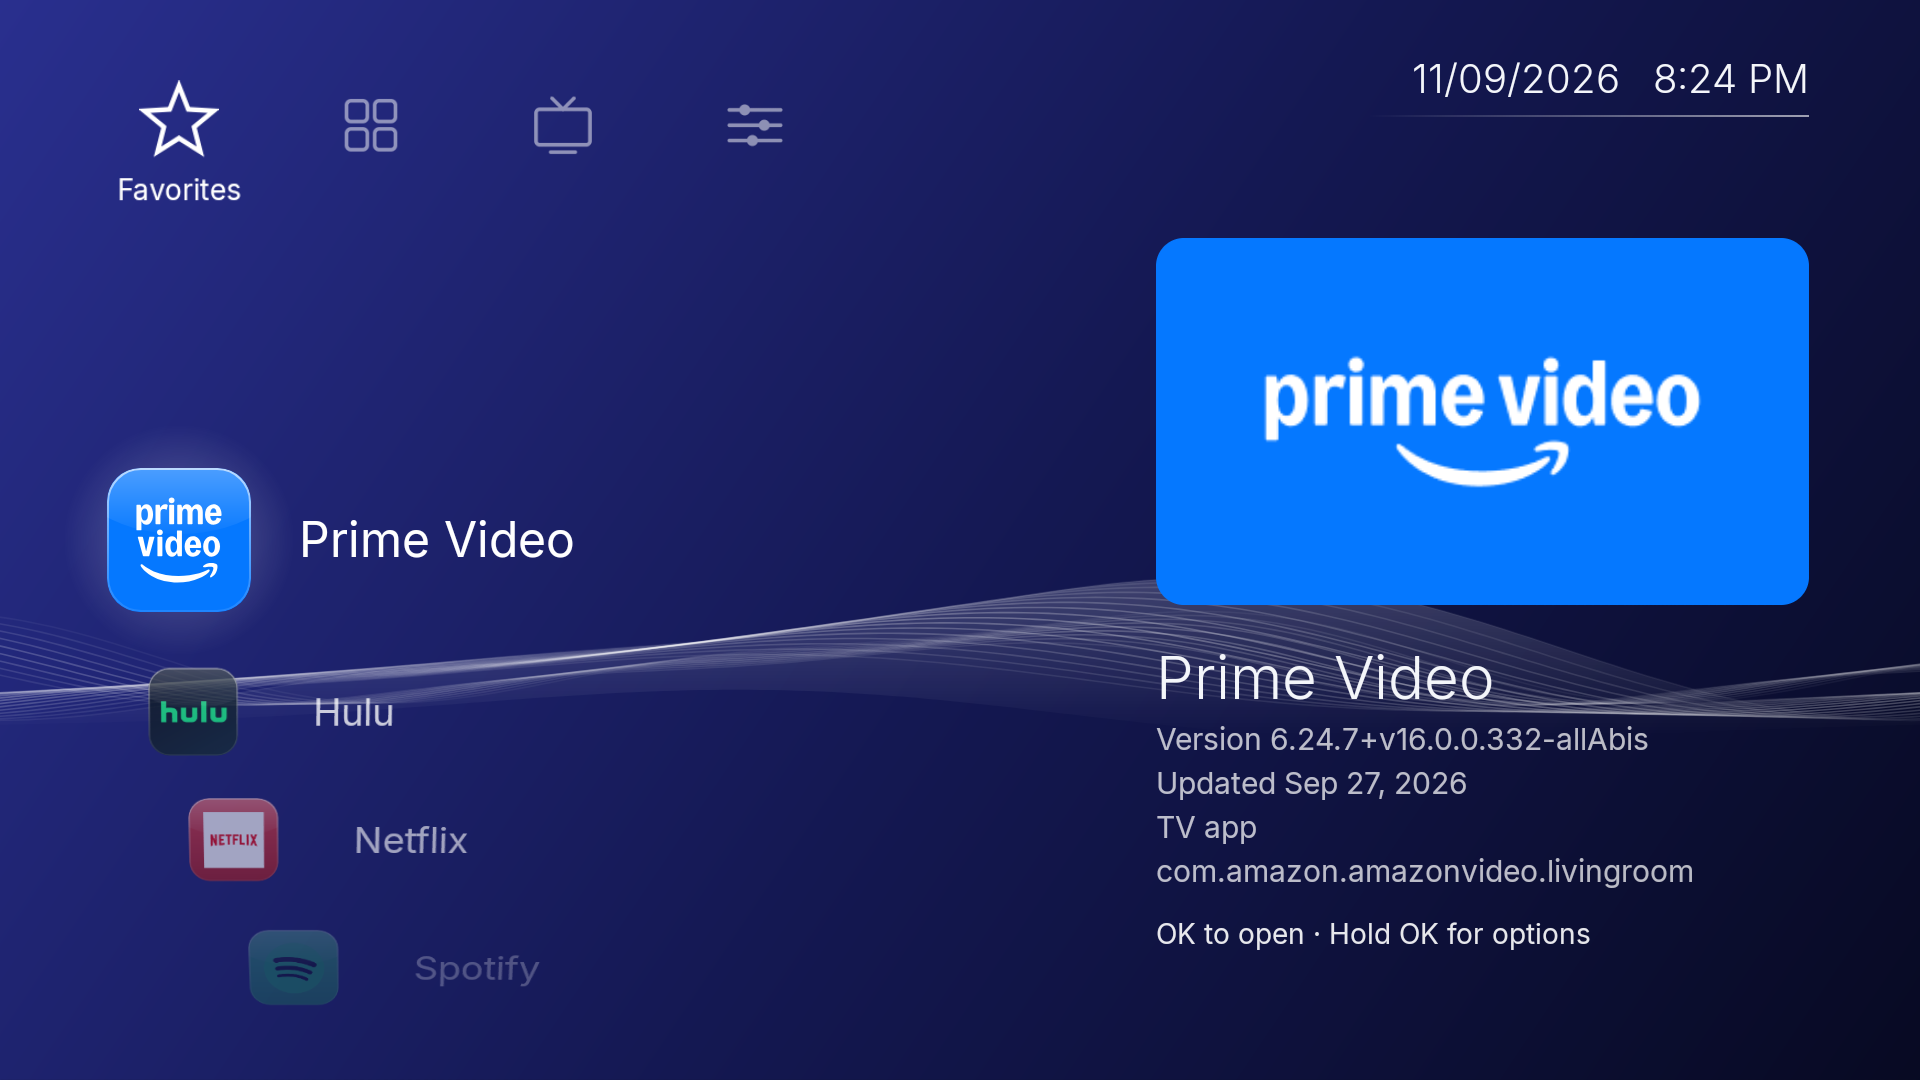
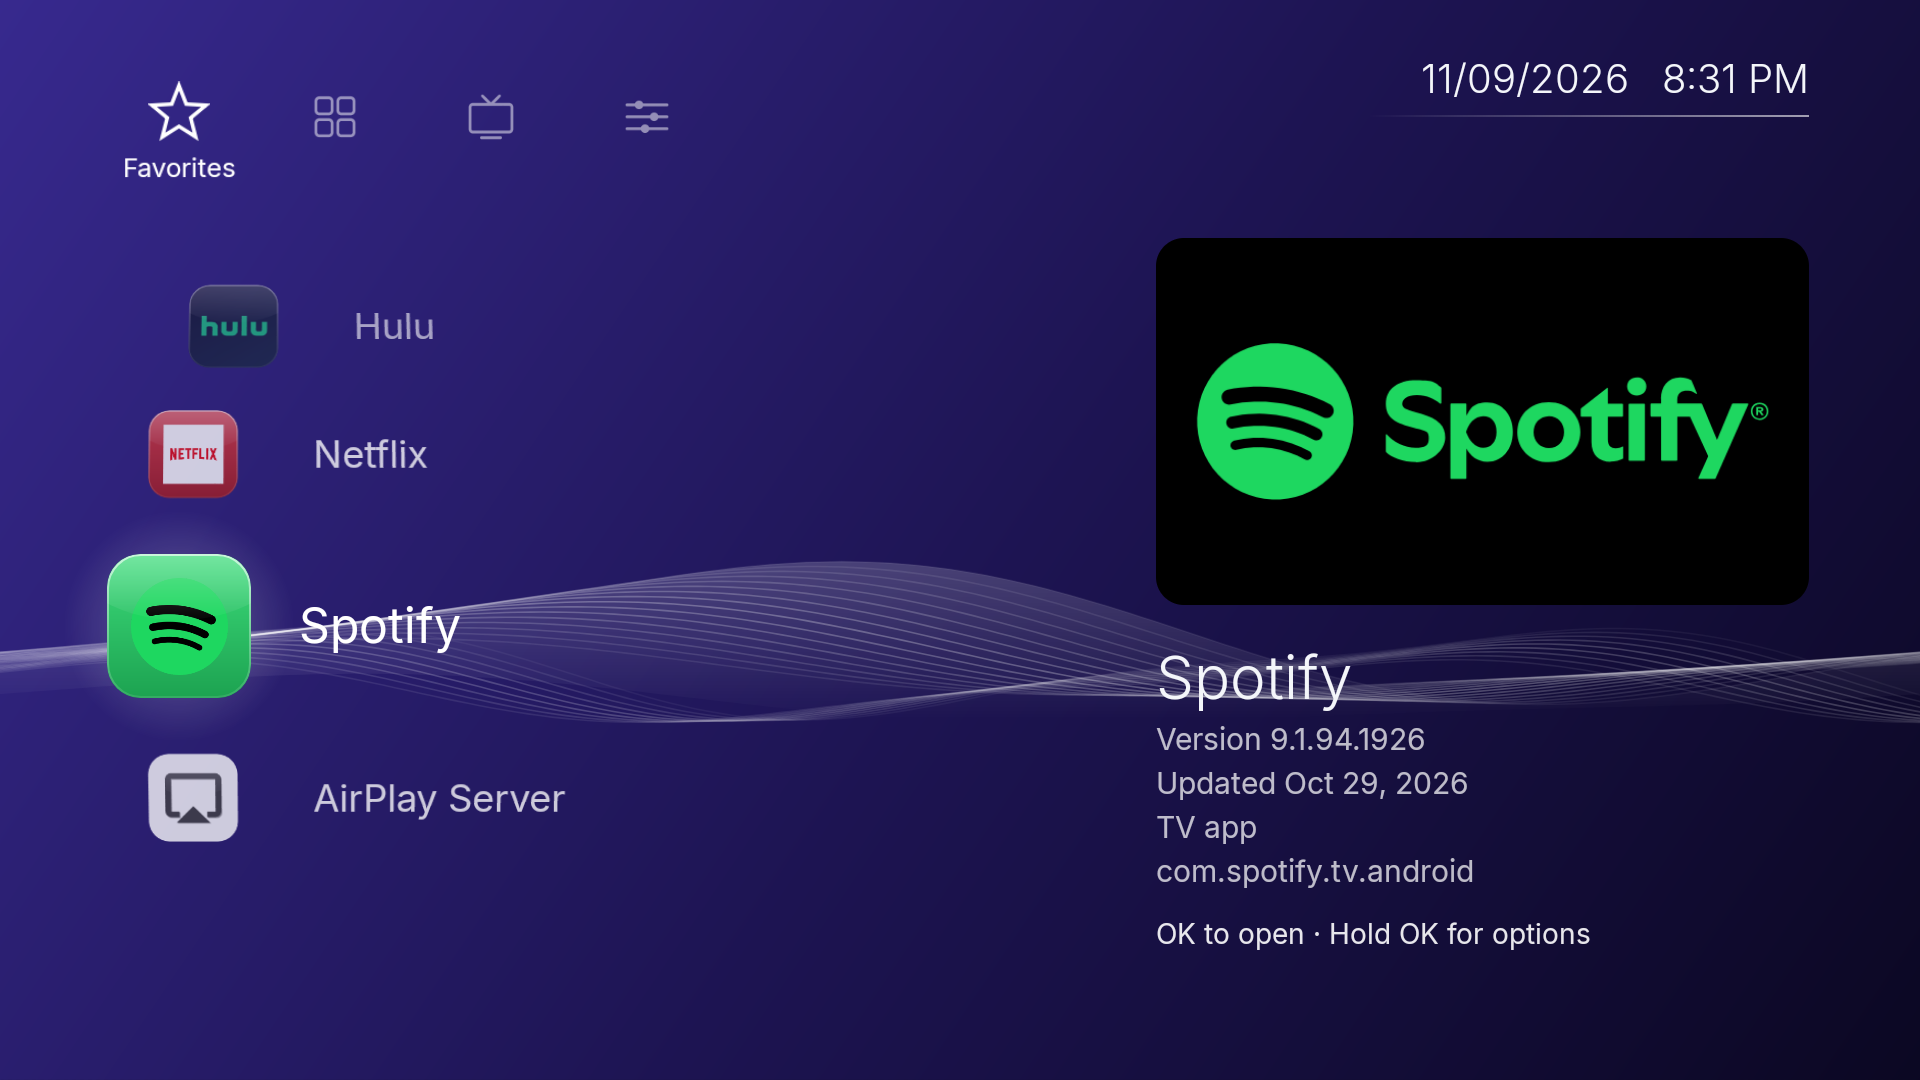
Wave: smaller category bar, wheel moved down to clear it

diff --git a/app/src/main/java/app/shelf/launcher/WaveScreen.kt b/app/src/main/java/app/shelf/launcher/WaveScreen.kt
@@ -241,7 +241,7 @@ fun WaveScreen(
         // Category bar sits top-left, inside the overscan-safe margins.
         val barY = H * 0.08f
         val anchorX = W * 0.058f + 34.dp
-        val catPitch = 96.dp
+        val catPitch = 78.dp
         val catPitchPx = with(density) { catPitch.toPx() }
         categories.forEachIndexed { ci, c ->
             val focusedCat = ci == clampCat()
@@ -250,8 +250,8 @@ fun WaveScreen(
             val s by animateFloatAsState(if (focusedCat) 1.1f else 0.85f, spring(0.7f, 400f), label = "cs")
             Column(
                 Modifier
-                    .offset(x = anchorX - 34.dp, y = barY)
-                    .width(68.dp)
+                    .offset(x = anchorX - 30.dp, y = barY)
+                    .width(60.dp)
                     .graphicsLayer {
                         translationX = (ci - catAnim.value) * catPitchPx
                         compositingStrategy = CompositingStrategy.ModulateAlpha
@@ -259,10 +259,10 @@ fun WaveScreen(
                     },
                 horizontalAlignment = Alignment.CenterHorizontally,
             ) {
-                Canvas(Modifier.size(36.dp).graphicsLayer { compositingStrategy = CompositingStrategy.Offscreen }) { drawCategoryIcon(c.icon) }
+                Canvas(Modifier.size(28.dp).graphicsLayer { compositingStrategy = CompositingStrategy.Offscreen }) { drawCategoryIcon(c.icon) }
                 Text(
-                    c.title, style = Type.small.copy(color = Color.White), maxLines = 1,
-                    modifier = Modifier.padding(top = 6.dp).graphicsLayer { alpha = if (focusedCat) 1f else 0f },
+                    c.title, style = Type.small.copy(color = Color.White, fontSize = 12.sp), maxLines = 1,
+                    modifier = Modifier.padding(top = 4.dp).graphicsLayer { alpha = if (focusedCat) 1f else 0f },
                 )
             }
         }
@@ -273,7 +273,7 @@ fun WaveScreen(
             val pitchPx = with(density) { 64.dp.toPx() }
             val clearPx = with(density) { 22.dp.toPx() }      // extra room around the selected item
             val curvePx = with(density) { 90.dp.toPx() }
-            val anchorY = H * 0.50f
+            val anchorY = H * 0.58f
             val iconPx = with(density) { 72.dp.toPx() }.roundToInt()
             c.items.forEachIndexed { i, item ->
                 val isSel = id == current?.id && i == sel
@@ -293,7 +293,7 @@ fun WaveScreen(
                             alpha = when {
                                 ar < 0.5f -> 1f
                                 rel < -2.1f -> ((rel + 2.7f) / 0.6f).coerceIn(0f, 0.6f) // two items fit above; keep clear of the bar
-                                rel > 2.2f -> (0.75f * (3.4f - rel) / 1.2f).coerceIn(0f, 0.75f)
+                                rel > 1.6f -> (0.75f * (2.8f - rel) / 1.2f).coerceIn(0f, 0.75f)
                                 else -> (0.95f - 0.18f * ar).coerceIn(0.2f, 0.85f)
                             }
                         },
